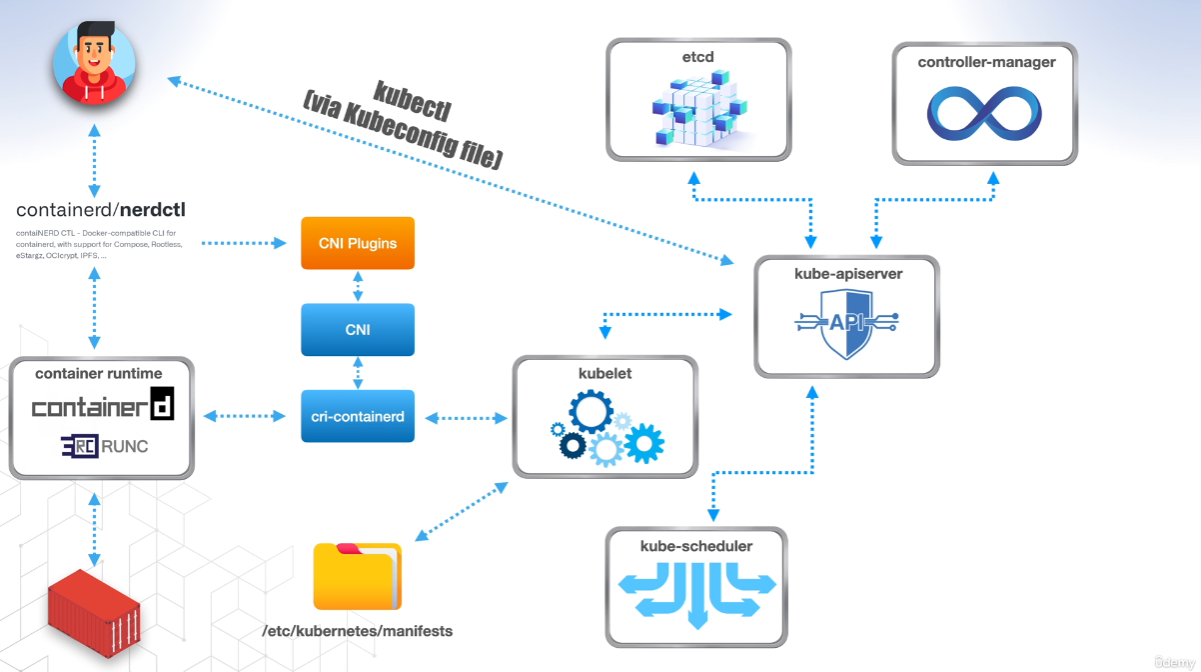
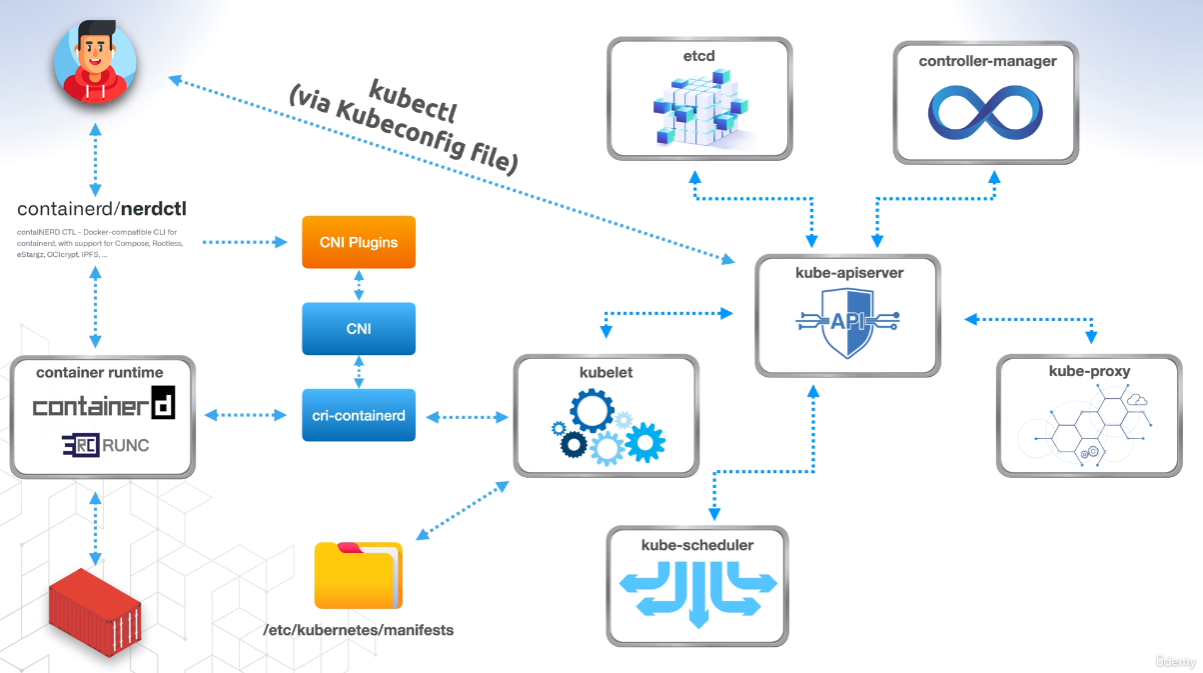
65. Kube-Proxy

diff --git a/note.md b/note.md
@@ -583,6 +583,6 @@ A control loop is a non-terminating loop that regulates the state of the system.
 
 Controller-Manager monitors the state of the cluster through the kube-apiserver and makes changes accordingly to change the state to the desired state.
 
-
-
+# 65. Kube-Proxy
+Kube-Proxy provides simple TCP, UDP and SCTP stream forwarding, round-robin TCP, UDP and SCTP forwarding across a set of backends.
 
